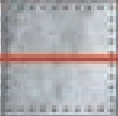
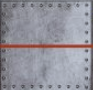
Spam cards and Laser proper.

diff --git a/roborally/src/main/java/dk/dtu/compute/se/pisd/roborally/controller/GameController.java b/roborally/src/main/java/dk/dtu/compute/se/pisd/roborally/controller/GameController.java
@@ -24,6 +24,7 @@ package dk.dtu.compute.se.pisd.roborally.controller;
 import dk.dtu.compute.se.pisd.roborally.model.*;
 import javafx.scene.control.ChoiceDialog;
 import org.jetbrains.annotations.NotNull;
+import java.util.Random;
 
 /**
  * ...
@@ -76,13 +77,19 @@ public class GameController {
 
         for (int i = 0; i < board.getPlayersNumber(); i++) {
             Player player = board.getPlayer(i);
+            Command[] commands = Command.values();
             if (player != null) {
                 for (int j = 0; j < Player.NO_REGISTERS; j++) {
                     CommandCardField field = player.getProgramField(j);
                     field.setCard(null);
                     field.setVisible(true);
                 }
-                for (int j = 0; j < Player.NO_CARDS; j++) {
+                for (int j = 0; j < player.getSpamCards(); j++) {
+                    CommandCardField field = player.getCardField(j);
+                    field.setCard(new CommandCard(commands[5]));
+                    field.setVisible(true);
+                }
+                for (int j = player.getSpamCards(); j < Player.NO_CARDS; j++) {
                     CommandCardField field = player.getCardField(j);
                     field.setCard(generateRandomCommandCard());
                     field.setVisible(true);
@@ -98,7 +105,7 @@ public class GameController {
      */
     private CommandCard generateRandomCommandCard() {
         Command[] commands = Command.values();
-        int random = (int) (Math.random() * commands.length);
+        int random = (int) (Math.random() * commands.length - 1); // -1 to make sure it does not genereate spam cards
         return new CommandCard(commands[random]);
     }
 
@@ -250,27 +257,25 @@ public class GameController {
             // XXX This is a very simplistic way of dealing with some basic cards and
             //     their execution. This should eventually be done in a more elegant way
             //     (this concerns the way cards are modelled as well as the way they are executed).
-            if (!command.isInteractive()) {
-                switch (command) {
-                    case FORWARD:
-                        this.moveForward(player);
-                        break;
-                    case RIGHT:
-                        this.turnRight(player);
-                        break;
-                    case LEFT:
-                        this.turnLeft(player);
-                        break;
-                    case FAST_FORWARD:
-                        this.fastForward(player);
-                        break;
-                    default:
-                        // DO NOTHING (for now)
-                }
-            } else {
-                this.board.setPhase(Phase.PLAYER_INTERACTION);
+            switch (command) {
+                case FORWARD:
+                    this.moveForward(player);
+                    break;
+                case RIGHT:
+                    this.turnRight(player);
+                    break;
+                case LEFT:
+                    this.turnLeft(player);
+                    break;
+                case FAST_FORWARD:
+                    this.fastForward(player);
+                    break;
+                case SPAM:
+                    this.SPAM(player);
+                    break;
+                default:
+                    this.board.setPhase(Phase.PLAYER_INTERACTION);
             }
-
         }
     }
 
@@ -370,6 +375,32 @@ public class GameController {
         board.setPhase(Phase.ACTIVATION);
     }
 
+
+    public void SPAM(@NotNull Player player) {
+        Random rand = new Random();
+        int randomNum = rand.nextInt(5);
+        player.decSpamCards();
+        System.out.println(randomNum);
+        switch (randomNum) {
+            case 0:
+                fastForward(player);
+                break;
+            case 1:
+                turnRight(player);
+                break;
+            case 2:
+                turnLeft(player);
+                break;
+            case 3:
+                moveForward(player);
+                break;
+            case 4:
+                board.setPhase(Phase.PLAYER_INTERACTION);
+                break;
+            default:
+                System.out.println("You fucked up.");
+        }
+    }
 
     /**
      * Moves a command card from a source field to a target field.

diff --git a/roborally/src/main/java/dk/dtu/compute/se/pisd/roborally/model/SpaceType.java b/roborally/src/main/java/dk/dtu/compute/se/pisd/roborally/model/SpaceType.java
@@ -43,9 +43,20 @@ public enum SpaceType {
     ONE_LASER_RIGHT("file:roborally/src/main/java/dk/dtu/compute/se/pisd/roborally/images/OneLaserRight.png", new Laser(1), Heading.EAST),
     TWO_LASER_RIGHT("file:roborally/src/main/java/dk/dtu/compute/se/pisd/roborally/images/TwoLaserRight.png", new Laser(2), Heading.EAST),
     THREE_LASER_RIGHT("file:roborally/src/main/java/dk/dtu/compute/se/pisd/roborally/images/ThreeLaserRight.png", new Laser(3), Heading.EAST),
-    BORDER_LEFT(Heading.WEST), BORDER_RIGHT(Heading.EAST), BORDER_UP(Heading.NORTH), BORDER_DOWN(Heading.SOUTH),
-    BORDER_CORNER_TOP_LEFT(Heading.NORTH, Heading.WEST), BORDER_CORNER_TOP_RIGHT(Heading.NORTH, Heading.EAST),
-    BORDER_CORNER_BOTTOM_LEFT(Heading.SOUTH, Heading.WEST), BORDER_CORNER_BOTTOM_RIGHT(Heading.SOUTH, Heading.EAST)
+    BORDER_LEFT(Heading.WEST),
+    BORDER_RIGHT(Heading.EAST),
+    BORDER_UP(Heading.NORTH),
+    BORDER_DOWN(Heading.SOUTH),
+    BORDER_CORNER_TOP_LEFT(Heading.NORTH, Heading.WEST),
+    BORDER_CORNER_TOP_RIGHT(Heading.NORTH, Heading.EAST),
+    BORDER_CORNER_BOTTOM_LEFT(Heading.SOUTH, Heading.WEST),
+    BORDER_CORNER_BOTTOM_RIGHT(Heading.SOUTH, Heading.EAST),
+    ONE_EMPTY_LASER_UP("file:roborally/src/main/java/dk/dtu/compute/se/pisd/roborally/images/OneEmptyLaserUp.png", new DefaultField()),
+    ONE_EMPTY_LASER_RIGHT("file:roborally/src/main/java/dk/dtu/compute/se/pisd/roborally/images/OneEmptyLaserRight.png", new DefaultField()),
+    BORDER_CORNER_LEFT_ONE_EMPTY_LASER_RIGHT("file:roborally/src/main/java/dk/dtu/compute/se/pisd/roborally/images/OneEmptyLaserRight.png", new DefaultField(), Heading.WEST),
+    BORDER_CORNER_RIGHT_ONE_EMPTY_LASER_RIGHT("file:roborally/src/main/java/dk/dtu/compute/se/pisd/roborally/images/OneEmptyLaserRight.png", new DefaultField(), Heading.EAST),
+    BORDER_CORNER_BOTTOM_ONE_EMPTY_LASER_UP("file:roborally/src/main/java/dk/dtu/compute/se/pisd/roborally/images/OneEmptyLaserUp.png", new DefaultField(), Heading.SOUTH),
+    BORDER_CORNER_TOP_ONE_EMPTY_LASER_UP("file:roborally/src/main/java/dk/dtu/compute/se/pisd/roborally/images/OneEmptyLaserUp.png", new DefaultField(), Heading.NORTH)
     ;
     final public Background Background;
     public Border Borders;

diff --git a/roborally/src/main/java/dk/dtu/compute/se/pisd/roborally/fieldActions/Laser.java b/roborally/src/main/java/dk/dtu/compute/se/pisd/roborally/fieldActions/Laser.java
@@ -1,7 +1,11 @@
 package dk.dtu.compute.se.pisd.roborally.fieldActions;
 
+import dk.dtu.compute.se.pisd.roborally.model.Heading;
+import dk.dtu.compute.se.pisd.roborally.model.Player;
 import dk.dtu.compute.se.pisd.roborally.controller.GameController;
 import dk.dtu.compute.se.pisd.roborally.model.Space;
+
+import java.util.List;
 
 public class Laser extends FieldAction{
 
@@ -11,8 +15,47 @@ public class Laser extends FieldAction{
         LaserAmount = laserAmount;
     }
 
+    public void searchTarget(Space space, Heading heading) {
+        boolean keepSearch = true;
+        Space neighbour = space.board.getNeighbour(space, heading);
+        while (keepSearch) {
+            System.out.println("Inside While Loop");
+            if(neighbour.isPlayerOnSpace()) {
+                System.out.println("Added " + LaserAmount + " SpamCards");
+                neighbour.getPlayer().addSpamCards(LaserAmount);
+                keepSearch = false;
+            }
+            if(neighbour.getType().BorderHeadings.contains(Heading.SOUTH)) {
+                keepSearch = false;
+            }
+            neighbour = space.board.getNeighbour(neighbour, heading);
+        }
+    }
+
     @Override
     public void doAction(GameController gameController, Space space) {
+        //List<Heading> LaserHeading = space.getType().BorderHeadings;
 
+        Heading heading = gameController.reverseHeading(space.getType().BorderHeadings.get(0));
+        searchTarget(space, heading);
+
+        /*
+        switch (space.getType().BorderHeadings.get(0)) {
+            case NORTH:
+                Heading heading = Heading.SOUTH;
+                break;
+            case EAST:
+                Heading heading = Heading.WEST;
+                break;
+            case SOUTH:
+                Heading heading = Heading.NORTH;
+                break;
+            case WEST:
+                Heading heading = Heading.EAST;
+                break;
+            default:
+                System.out.println("Laser not working.");
+        }
+         */
     }
 }

diff --git a/roborally/src/main/java/dk/dtu/compute/se/pisd/roborally/model/Player.java b/roborally/src/main/java/dk/dtu/compute/se/pisd/roborally/model/Player.java
@@ -40,7 +40,7 @@ public class Player extends Subject {
     final public static int NO_REGISTERS = 5;
 
     @Expose
-    final public static int NO_CARDS = 8;
+    final public static int NO_CARDS = 9;
 
     final public Board board;
     @Expose
@@ -55,12 +55,14 @@ public class Player extends Subject {
     @Expose
     private Heading heading = SOUTH;
 
+    private int spamCards = 0;
 
     @Expose
     private CommandCardField[] program;
 
     @Expose
     private CommandCardField[] cards;
+
 
     public Player(@NotNull Board board, String color, @NotNull String name) {
         this.board = board;
@@ -78,7 +80,7 @@ public class Player extends Subject {
         cards = new CommandCardField[NO_CARDS];
         for (int i = 0; i < cards.length; i++) {
             cards[i] = new CommandCardField(this);
-        }
+         }
     }
 
     public void raiseCheckpoints() {
@@ -164,5 +166,27 @@ public class Player extends Subject {
 
     public CommandCardField[] getCards() {
         return cards;
+    }
+
+    public void incSpamCards() {
+        spamCards++;
+    }
+
+    public void decSpamCards() {
+        spamCards--;
+    }
+
+    public void addSpamCards(int number) {
+        spamCards = spamCards + number;
+    }
+
+    //Public Getter Method for SpamCards
+    public int getSpamCards() {
+        return spamCards;
+    }
+
+    //Public Setter Method for SpamCards
+    public void setSpamCards(int number) {
+        number = spamCards;
     }
 }

diff --git a/roborally/src/main/java/dk/dtu/compute/se/pisd/roborally/view/PremadeMaps.java b/roborally/src/main/java/dk/dtu/compute/se/pisd/roborally/view/PremadeMaps.java
@@ -30,12 +30,12 @@ public enum PremadeMaps {
     CORRIDOR_BLITZ(new int[][]{
             {0,8,0,0,0,0,0,0,13,0},
             {11,0,0,0,0,20,0,0,0,6},
-            {0,0,36,0,0,0,25,34,0,0},
-            {0,0,28,13,10,10,10,0,0,0},
-            {0,20,0,13,0,19,12,0,0,0},
-            {0,1,0,13,0,0,12,0,20,0},
-            {0,0,0,11,11,11,12,31,2,0},
-            {0,0,35,22,0,0,0,37,0,0},
+            {0,0,47,42,42,42,25,44,0,0},
+            {0,0,28,13,10,10,10,43,0,0},
+            {0,20,43,13,0,19,12,43,0,0},
+            {0,1,43,13,0,0,12,43,20,0},
+            {0,0,43,11,11,11,12,31,2,0},
+            {0,0,45,22,42,42,42,46,0,0},
             {6,0,0,0,20,0,0,0,0,10},
             {0,12,0,0,0,0,0,0,9,0}}, "Corridor Blitz"),
 

diff --git a/roborally/src/main/java/dk/dtu/compute/se/pisd/roborally/model/Command.java b/roborally/src/main/java/dk/dtu/compute/se/pisd/roborally/model/Command.java
@@ -40,7 +40,8 @@ public enum Command {
     LEFT("Turn Left"),
     FAST_FORWARD("Fast Forward"),
     // XXX Assignment P3
-    OPTION_LEFT_RIGHT("Left OR Right", LEFT, RIGHT);
+    OPTION_LEFT_RIGHT("Left OR Right", LEFT, RIGHT),
+    SPAM("Spam Card", LEFT, RIGHT);
 
     final public String displayName;
 

diff --git a/roborally/src/main/java/dk/dtu/compute/se/pisd/roborally/model/Space.java b/roborally/src/main/java/dk/dtu/compute/se/pisd/roborally/model/Space.java
@@ -66,6 +66,10 @@ public class Space extends Subject {
         return player;
     }
 
+    public boolean isPlayerOnSpace() {
+        return getPlayer() != null;
+    }
+
     public void setPlayer(Player player) {
         Player oldPlayer = this.player;
         if (player != oldPlayer &&
